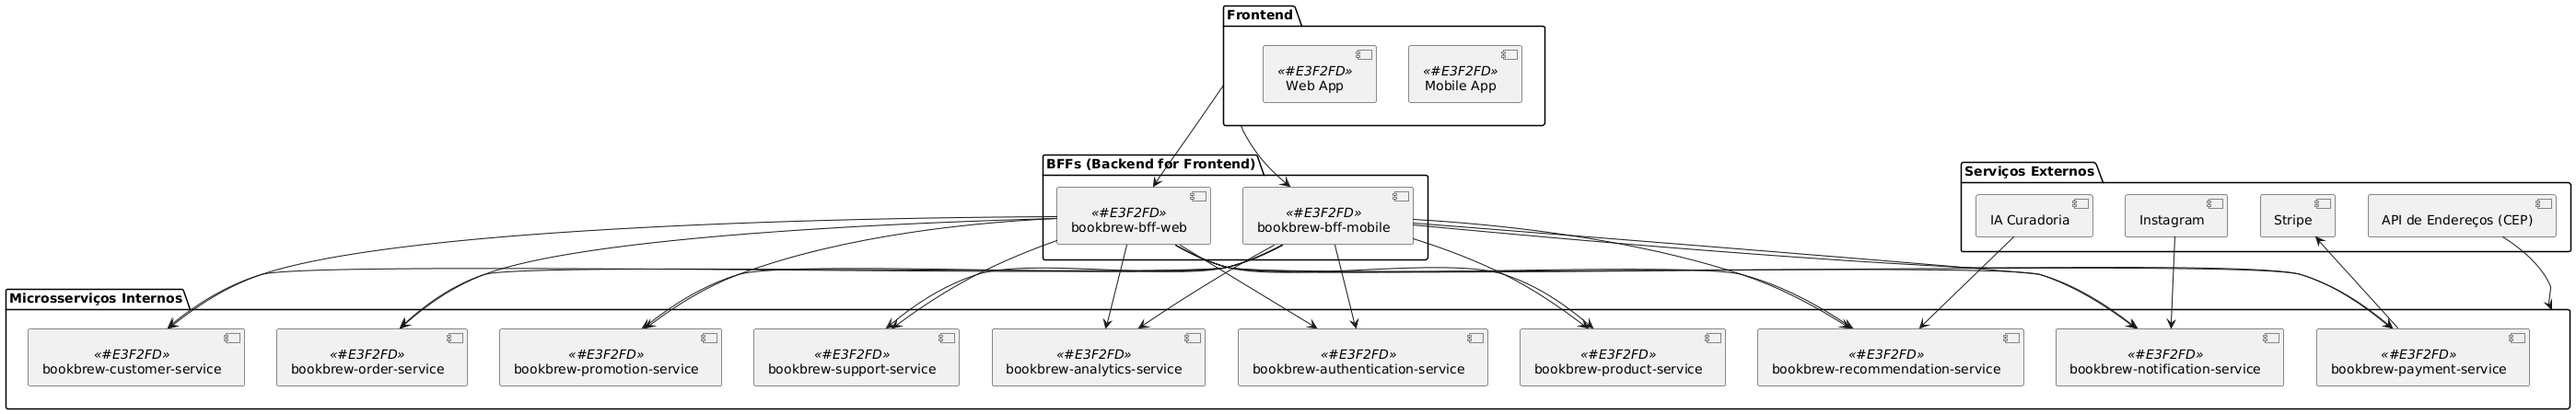
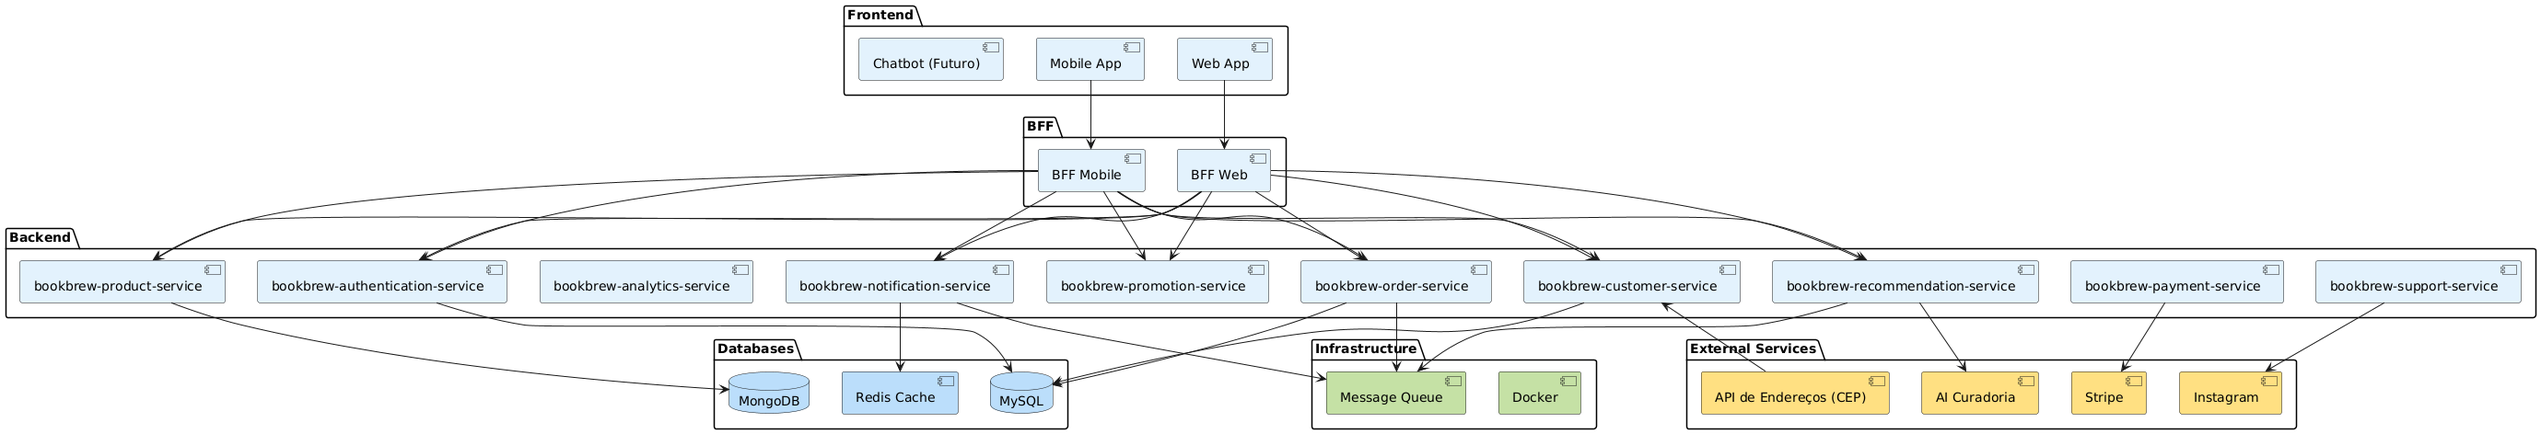
:books: docs: update README and component diagram files

Changed region(s): [[0.0, 0.0, 1.0, 0.9956], [0.6234, 0.4356, 0.6546, 0.4667], [0.1559, 0.4356, 0.187, 0.4667]]

diff --git a/README.md b/README.md
@@ -34,14 +34,13 @@ An e-commerce platform offering a curated selection of books, perfumes, coffees,
 4. **Email Notifications**: Sends order confirmation emails and status updates.
 5. **Blog**: A section with articles on literature, coffee tips, and beverage pairings, promoting engagement.
 6. **Subscription Clubs**: Offers monthly subscription plans featuring curated selections of books, coffees, and beverages based on the user profile.
-7. **Virtual Events**: Webinars or live events with authors, baristas, or beverage experts to engage the community.
-8. **Gamification**: Rewards or points for interactions (such as reviews, shares, etc.) that can be redeemed for discounts or products.<br><br>
+7. **Gamification**: Rewards or points for interactions (such as reviews, shares, etc.) that can be redeemed for discounts or products.<br><br>
 
 ### 6. Suggested Technologies
-1. **Frontend**: React, Vue.js, or Angular.
-2. **Backend**: Node.js with Express or Django.
-3. **Database**: MongoDB or PostgreSQL.
-4. **API**: RESTful or GraphQL for frontend-backend communication.
+1. **Frontend**: React.
+2. **Backend**: Spring Boot.
+3. **Database**: MongoDB, MySQL and Redis.
+4. **API**: RESTful for frontend-backend communication.
 5. **Authentication**: JWT (JSON Web Tokens) for user authentication.<br><br>
 
 ### 7. Testing Scenarios
@@ -129,8 +128,8 @@ An e-commerce platform offering a curated selection of books, perfumes, coffees,
 
 ### 3. Architecture Components
 - #### 3.1. Presentation Layer (Frontend)
-  - **Web App:** User interface for web access, developed in React or Angular.
-  - **App Mobile:** Interface for mobile devices, built with frameworks like React Native or Flutter.
+  - **Web App:** User interface for web access, developed in React.
+  - **App Mobile:** Interface for mobile devices, built with frameworks like React Native.
   - **Responsibilities:** Interacts with the BFF to retrieve data on products, carts, profiles, and recommendations, adapting the presentation for each platform.
 
 - #### 3.2. Backend for Frontend (BFF) Services
@@ -142,7 +141,7 @@ An e-commerce platform offering a curated selection of books, perfumes, coffees,
       - Adapts responses for each platform, offering a personalized experience.
 
 - #### 3.3. Backend Microservices
-  - Each microservice is responsible for a specific function and communicates with the BFF or other services via RESTful APIs or gRPC:
+  - Each microservice is responsible for a specific function and communicates with the BFF or other services via RESTful APIs:
     1. Product Registration Service
         - **Function:** Manages product information, including name, description, category, price, and stock.
         - **Database:** MySQL (structured, relational data).
@@ -183,7 +182,7 @@ An e-commerce platform offering a curated selection of books, perfumes, coffees,
 
 ### 5. Communication and Messaging Flow
   - To ensure efficient, decoupled communication between microservices, a messaging system is used:
-    - **Message Queue (RabbitMQ or Kafka):** Facilitates asynchronous processing between services, such as sending notifications or updating inventory.
+    - **Message Queue (Kafka):** Facilitates asynchronous processing between services, such as sending notifications or updating inventory.
     - **Events:** Purchase event notifications, inventory updates, and payment notifications.<br><br>
 
 ### 6. Security and Authentication
